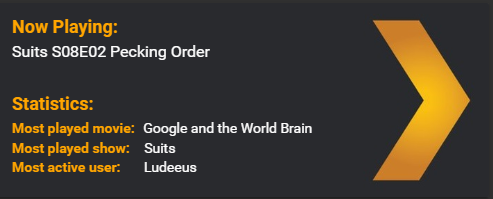
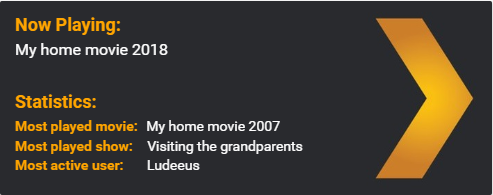
Update tautulli example to reflect the current versions

diff --git a/picture-elements/tautulli-card.md b/picture-elements/tautulli-card.md
@@ -58,7 +58,7 @@ views:
               transform: none
           - type: custom:state-attribute-element
             entity: sensor.tautulli
-            attribute: Movie
+            attribute: "Top Movie"
             show_empty: true
             prefix: "<b style='color: orange; margin-right: 5px'>Most played movie: </b>"
             style:
@@ -68,7 +68,7 @@ views:
               transform: none
           - type: custom:state-attribute-element
             entity: sensor.tautulli
-            attribute: TV
+            attribute: "Top TV Show"
             show_empty: true
             prefix: "<b style='color: orange; margin-right: 11px'>Most played show: </b>"
             style:
@@ -78,7 +78,7 @@ views:
               transform: none
           - type: custom:state-attribute-element
             entity: sensor.tautulli
-            attribute: User
+            attribute: "Top User"
             show_empty: true
             prefix: "<b style='color: orange; margin-right: 20px'>Most active user: </b>"
             style:
